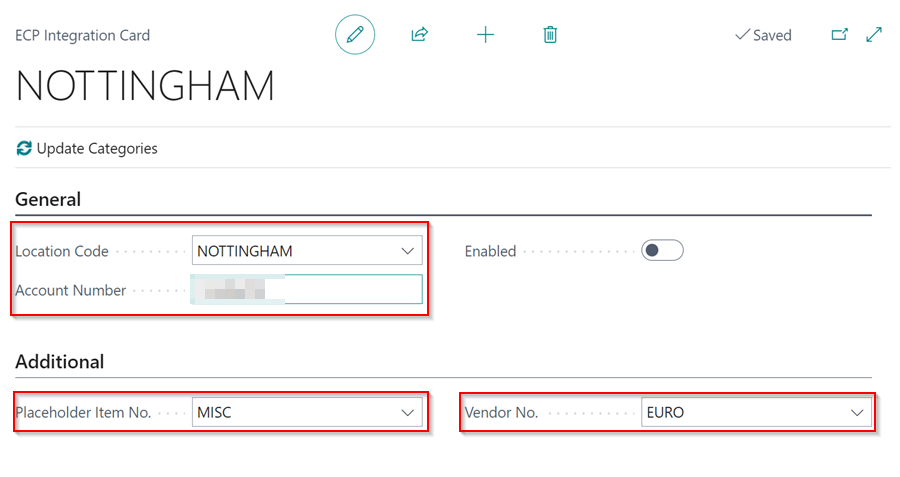
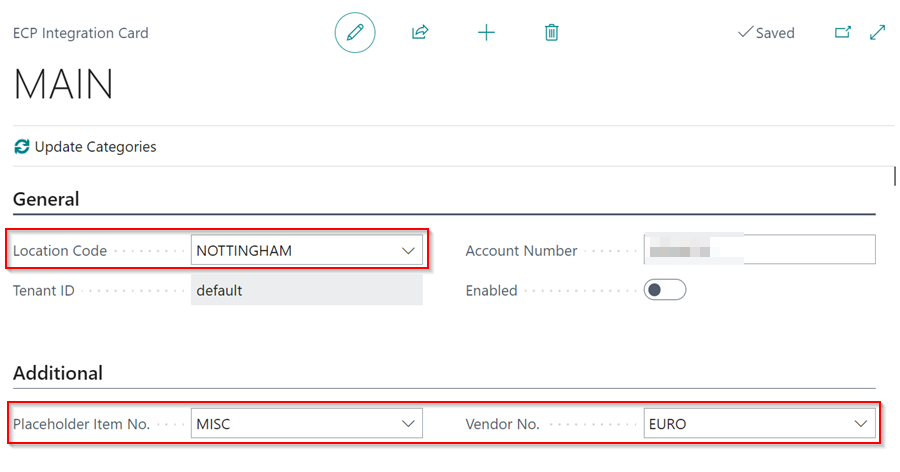
ecp integration

diff --git a/docs/garagehive-ecp-integration.md b/docs/garagehive-ecp-integration.md
@@ -9,25 +9,11 @@ title: LKQ Euro Car Parts (ECP) Integration With Garage Hive
 LKQ Euro Car Parts (ECP) Integration offers seamless integration between Garage Hive and the **LKQ Euro Car Parts (ECP)** catalogues, allowing the process of **quoting**, **sourcing** and **ordering** the parts for vehicles to be efficient.
 
 ## In this article
-1. [Getting the Account Number](#getting-the-account-number)
-2. [System Setup for ECP Integration](#system-setup-for-ecp-integration)
+1. [System Setup for ECP Integration](#system-setup-for-ecp-integration)
+2. [Getting the Account Number](#getting-the-account-number)
 3. [Search for Items in the Service Document from ECP](#search-for-items-in-the-service-document-from-ecp)
 4. [Adding New Items from ECP to the Service Document](#adding-new-items=-from-ecp-to-the-service-document)
 5. [Garage Hive Lookup Methods in ECP](#garage-hive-lookup-methods-in-ecp)
-
-### Getting the Account Number
-You will require an **Account Number** before you can begin the process of linking your Garage Hive system to LKQ Euro Car Parts.
-1. ##### Existing LKQ Euro Car Parts Customers
-   If you are an existing customer of LKQ Euro Car parts, please complete the form within the link below:
-
-      > # LKQ ECP Integration Registration Form: <ins>[Form](https://forms.office.com/e/yvwPv6nRSH){:target="_blank"}</ins>
-
-   {% include tip.html title="Note" text="If you have multiple locations, you should get an Account Number for each location." %}
-
-2. ##### New LKQ Euro Car Parts Customer
-If you currently do not have an account with LKQ Euro Car Parts please contact your local branch in order to create a new Account.
-
-[Go back to top](#top)
 
 ### System Setup for ECP Integration
 To enable the LKQ ECP Integration in Garage Hive:
@@ -43,7 +29,23 @@ To enable the LKQ ECP Integration in Garage Hive:
 
    ![](media/ecp-integration-setup3.png)
 
-{% include tip.html title="Note" text="Once you have provided the information required and submitting the form, LKQ Euro Car Parts will proceed to process your account details and the Garage Hive Support Team will complete the integration setup on your behalf and email you when your LKQ ECP Integration is enabled." %}
+[Go back to top](#top)
+
+### Getting the Account Number
+You will require an **Account Number** before you can begin the process of linking your Garage Hive system to LKQ Euro Car Parts. If you have multiple locations, you should get an Account Number for each location.
+1. ##### Existing LKQ Euro Car Parts Customers
+   If you are an existing customer of LKQ Euro Car parts, please complete the form within the link below:
+
+      > # LKQ ECP Integration Registration Form: <ins>[Form](https://forms.office.com/e/yvwPv6nRSH){:target="_blank"}</ins>
+
+   Copy the **Tenant ID** in the **ECP Integration** page.
+      
+      ![](media/ecp-integration-tenant-id1.png)
+
+   {% include tip.html title="Note" text="Once you have provided the information required and submitting the form, LKQ Euro Car Parts will proceed to process your account details and the Garage Hive Support Team will complete the integration setup on your behalf and email you when your LKQ ECP Integration is enabled." %}
+
+1. ##### New LKQ Euro Car Parts Customer
+If you currently do not have an account with LKQ Euro Car Parts please contact your local branch in order to create a new Account.
 
 [Go back to top](#top)
 
